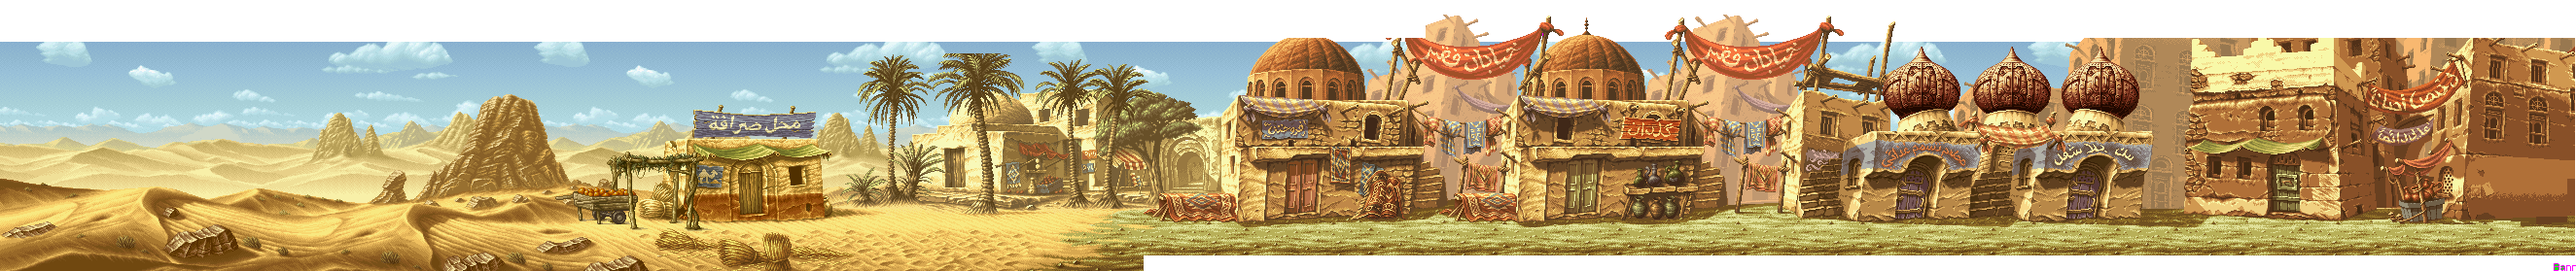
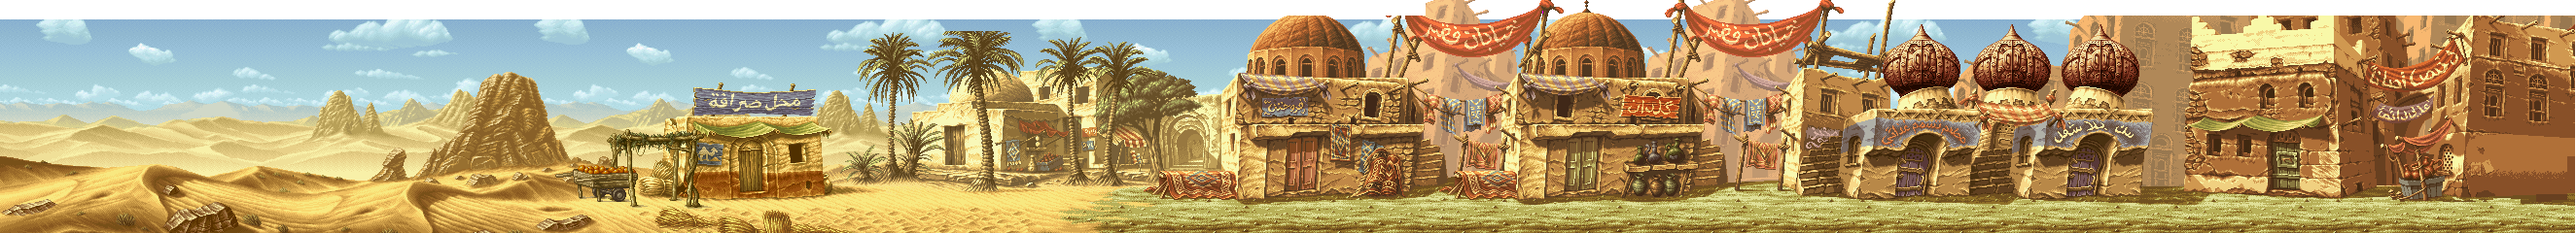
Cambiada mission1 para mejor tamaño

diff --git a/MetalSlug/src/es/deusto/prog3/metalslug/tests/collisions/TestGame.java b/MetalSlug/src/es/deusto/prog3/metalslug/tests/collisions/TestGame.java
@@ -8,6 +8,7 @@ import org.newdawn.slick.BasicGame;
 import org.newdawn.slick.Color;
 import org.newdawn.slick.GameContainer;
 import org.newdawn.slick.Graphics;
+import org.newdawn.slick.Image;
 import org.newdawn.slick.Input;
 import org.newdawn.slick.SlickException;
 import org.newdawn.slick.geom.Circle;
@@ -22,6 +23,7 @@ public class TestGame extends BasicGame {
 	static ArrayList<Granada> granadas = new ArrayList<>();
 	static ArrayList<Bullet> enemyBullets = new ArrayList<>();
 	static ArrayList<Enemy> enemies = new ArrayList<>();
+	private Image background;
 
 	public TestGame(String title) {
 		super(title);
@@ -40,6 +42,7 @@ public class TestGame extends BasicGame {
 	public void render(GameContainer gc, Graphics g) throws SlickException {
 		if(player.getCenterX() > gc.getWidth()/2)
 			g.translate(-player.getCenterX() + gc.getWidth()/2, 0);
+		background.draw(0, 0);
 		player.drawPiernas();
 		player.drawCabeza();	
 		for(Iterator<Enemy> iterator = enemies.iterator(); iterator.hasNext();) {
@@ -83,6 +86,8 @@ public class TestGame extends BasicGame {
 		slopes.add(new Slope(1000, 700, 1200, 600));
 		platforms.add(new Rectangle(1200, 600, 300, 300));
 		enemies.add(new Enemy(1000, 200, player));
+		
+		background = new Image("resources/data/Mission1.png", false, Image.FILTER_NEAREST).getScaledCopy(3);
 		
 		
 	}

diff --git a/MetalSlug/src/es/deusto/prog3/metalslug/basededatos/BaseDeDatos.java b/MetalSlug/src/es/deusto/prog3/metalslug/basededatos/BaseDeDatos.java
@@ -41,7 +41,7 @@ public class BaseDeDatos{
 			try {
 				conectar();
 					statement.executeUpdate("create table puntuacion (jugador String, puntos int, nivel int)");
-					statement.executeUpdate("create table plataformas (tipo string, x1 float, y1 float, x2 float, y2 float, int nivel)");
+					statement.executeUpdate("create table plataformas (tipo string, x1 float, y1 float, x2 float, y2 float, nivel int)");
 			  }catch(SQLException e) {
 				  System.err.println(e.getMessage());
 			  }
